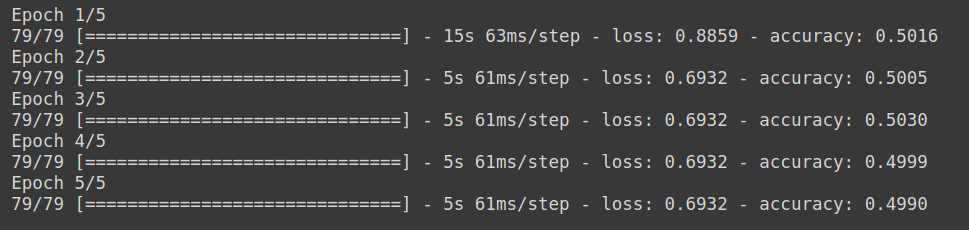
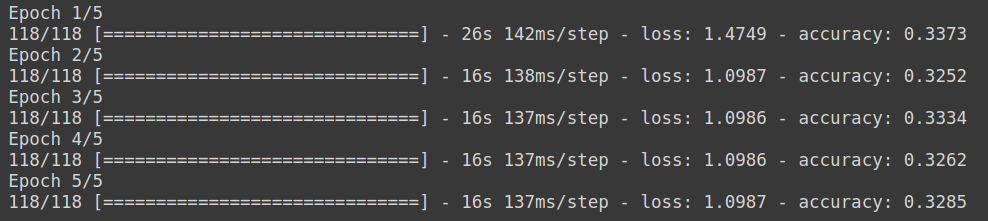
Update Test 5 results

Changed region(s): [[0.0, 0.2172, 0.9907, 0.9502], [0.0, 0.0271, 0.9907, 0.2172]]

diff --git a/models/debugging/1D-CNN Multi-class/Signal_HIDDEN_in_strain_data/Signal_NOT_WHITENED/Test 5/README.md b/models/debugging/1D-CNN Multi-class/Signal_HIDDEN_in_strain_data/Signal_NOT_WHITENED/Test 5/README.md
@@ -66,22 +66,31 @@ _________________________________________________________________
 ```
 
 # Trial Hyperparameters :
+"5-F CV" in the last column represents 5-Fold Cross Validation. 
 ```
-| Trial No. | Normalized? | Amplitude Re-Scaled? | Optimizer | lr   | Batch Size | Epochs |
-| --------- | ----------- | -------------------- | --------- | ---- | ---------- | ------ |
-| 1         | No          | Yes (By 1e19)        | Adam      | 1e-3 | 128        | 5      |
-| --------- | ----------- | -------------------- | --------- | ---- | ---------- | ------ |
-| 2         | No          | Yes (By 1e18)        | Adam      | 1e-3 | 128        | 5      |
-| --------- | ----------- | -------------------- | --------- | ---- | ---------- | ------ |
+| Trial No. | Normalized? | Amplitude Re-Scaled? | Optimizer | lr   | Batch Size | Epochs | 5-F CV |
+| --------- | ----------- | -------------------- | --------- | ---- | ---------- | ------ | ------ |
+| 1         | No          | Yes (By 1e17)        | Adam      | 1e-3 | 128        | 5      | No     |
+| --------- | ----------- | -------------------- | --------- | ---- | ---------- | ------ | ------ |
+| 2         | No          | Yes (By 1e18)        | Adam      | 1e-3 | 128        | 5      | No     |
+| --------- | ----------- | -------------------- | --------- | ---- | ---------- | ------ | ------ |
+| 3         | No          | Yes (By 1e19)        | Adam      | 1e-3 | 128        | 5      | No     |
+| --------- | ----------- | -------------------- | --------- | ---- | ---------- | ------ | ------ |
+| 4         | No          | Yes (By 1e19)        | Adam      | 1e-3 | 128        | 5      | Yes    |
+| --------- | ----------- | -------------------- | --------- | ---- | ---------- | ------ | ------ |
 ```
 
 # Trial Results :
 ```
 | Trial No. | Accuracy | Precision | Recall | F1 Score |
 | --------- | -------- | --------- | ------ | -------- |
-| 1         | 49.55%   | 0.5       | 1      | 0.667    |
+| 1         | 32.9%    | nan       | 0.333  | nan      |
 | --------- | -------- | --------- | ------ | -------- |
-| 2         | 49.90%   | 0         | 0      | -        |
+| 2         | 32.85%   | nan       | 0.333  | nan      |
+| --------- | -------- | --------- | ------ | -------- |
+| 3         | 99.37%   | 0.991     | 0.991  | 0.991    |
+| --------- | -------- | --------- | ------ | -------- |
+| 4         |          |           |        |          |
 | --------- | -------- | --------- | ------ | -------- |
 ```
 
@@ -97,6 +106,18 @@ _________________________________________________________________
 <p align="center"> <img src="screenshots/cm_2.png"> </p>
 <p align="center"> <img src="screenshots/graph_2.png"> </p>
 <p align="center"> <img src="screenshots/trial_2.png"> </p>
+<hr>
+
+## Trial 3:
+<p align="center"> <img src="screenshots/cm_3.png"> </p>
+<p align="center"> <img src="screenshots/graph_3.png"> </p>
+<p align="center"> <img src="screenshots/trial_3.png"> </p>
+<hr>
+
+## Trial 4:
+<p align="center"> <img src="screenshots/cm_4.png"> </p>
+<p align="center"> <img src="screenshots/graph_4.png"> </p>
+<p align="center"> <img src="screenshots/trial_4.png"> </p>
 
 # References :
 1. Krastev, Plamen. (2019). Real-Time Detection of Gravitational Waves from Binary Neutron Stars using Artificial Neural Networks.
